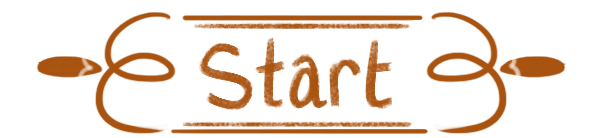
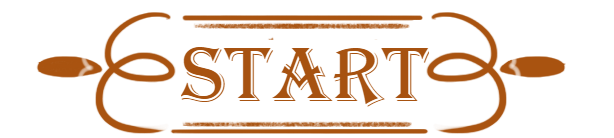
4주차 작업내용1
리소스 추가
맵 (진행중)
level 설정 메뉴

Changed region(s): [[0.2785, 0.2899, 0.7117, 0.8116]]

diff --git a/FinalProject/main.py b/FinalProject/main.py
@@ -11,25 +11,45 @@ P_main = load_image("main.jpg")
 P_player = load_image("character.png")
 P_light1 = load_image("Eff_Glitter.png")
 P_light2 = load_image("Eff_Glitter2.png")
+P_light3 = load_image("Eff_Glitter3.png")
+P_light4 = load_image("Eff_Glitter4.png")
 P_startbutton = load_image("startbutton.png")
+P_exitbutton = load_image("exitbutton.png")
+P_bullet = load_image("bullet.png")
+P_menuback = load_image("edge.png")
+P_menuside = load_image("side.png")
+P_mouse = load_image("pointer.png")
 #텍스쳐를 불러옵니다.
 
 
 def handle_events():
-    global stage,MyMouse
+    global stage,MyMouse,ClickCnt
     events = get_events()
     for event in events:
-        if event.type == SDL_QUIT:
-            stage = "serve"
+        if event.type == SDL_MOUSEMOTION:
+            MyMouse = (event.x, WindowY - event.y)
+            num = g_Time % 50
+            MouseStar[num].X = event.x + random.randint(-5, 6)
+            MouseStar[num].Y = WindowY - event.y + random.randint(-5, 6)
+            MouseStar[num].dirX = MouseStar[num].dirY = 0
+            MouseStar[num].Life = random.randint(12, 20)
+            MouseStar[num].live = True
+
+        if event.type == SDL_MOUSEBUTTONDOWN:
+            print("click")
+            for i in range(0,50):
+                ClickStar[i].live = True
+                ClickStar[i].Life = 30
+                ClickStar[i].X = event.x
+                ClickStar[i].Y = WindowY -event.y
+                ClickStar[i].dirX = ClickStar[i].dirY = 0
+            ClickCnt = 0
+
         if(stage == "main"):
-            if event.type == SDL_MOUSEMOTION:
-                MyMouse = (event.x,WindowY-event.y)
-                num = g_Time%50
-                MouseStar[num].X = event.x + random.randint(-5,6)
-                MouseStar[num].Y = WindowY-event.y + random.randint(-5,6)
-                MouseStar[num].dirX = MouseStar[num].dirY = 0
-                MouseStar[num].Life = random.randint(8,16)
-                MouseStar[num].live = True
+            if event.type == SDL_MOUSEBUTTONDOWN:
+                if (100 < MyMouse[0] < 700):
+                    if (400 < MyMouse[1] < 500):
+                        stage = "level"
         elif(stage == "level"):
             pass
         elif(stage == "stage"):
@@ -67,12 +87,29 @@ def handle_events():
             pass
 
 
-
+hide_cursor()
 while(True):
     handle_events()
     clear_canvas()
     if(stage == "main"):
         P_main.clip_draw(0+g_Time,0,WindowX,WindowY,WindowX//2,WindowY//2)
+        ##main menu
+        if (100 < MyMouse[0] < 700):
+            if (400 < MyMouse[1] < 500):
+                P_startbutton.draw(WindowX / 2, WindowY - 350, 620, 110)
+            else:
+                P_startbutton.draw(WindowX / 2, WindowY - 350, 600, 100)
+        else:
+            P_startbutton.draw(WindowX / 2, WindowY - 350, 600, 100)
+
+        if (100 < MyMouse[0] < 700):
+            if (250 < MyMouse[1] < 350):
+                P_exitbutton.draw(WindowX / 2, WindowY - 500, 620, 110)
+            else:
+                P_exitbutton.draw(WindowX / 2, WindowY - 500, 600, 100)
+        else:
+            P_exitbutton.draw(WindowX / 2, WindowY - 500, 600, 100)
+        ##main menu
     elif(stage == "stage"):
         #P_main.draw(WindowX/2,WindowY/2,WindowX,WindowY)
         if(g_Player.live == True):
@@ -86,49 +123,61 @@ while(True):
             g_Player.Draw()
             P_player.clip_draw(0,0,65,65,g_Player.X,g_Player.Y)
     elif(stage == "level"):#
-        P_main.draw(g_Player.X,g_Player.Y,90,90)
+        P_menuback.draw(WindowX/2,WindowY/2,WindowX,WindowY)
+        P_menuside.draw(WindowX/2,WindowY/10*9-50,900,200)
+        P_menuside.draw(WindowX/2,WindowY/10*9-250,900,200)
+        P_menuside.draw(WindowX/2,WindowY/10*9-450,900,200)
     elif(stage == "end"):
         break
     delay(0.033)
 
-    ##main menu
-    print(MyMouse)
-    if(100 <MyMouse[0] <700):
-        if(400<MyMouse[1]<500):
-            P_startbutton.draw(WindowX/2,WindowY-350,620,110)
-        else:
-            P_startbutton.draw(WindowX/2,WindowY-350,600,100)
-    else:
-        P_startbutton.draw(WindowX / 2, WindowY - 350, 600, 100)
-    ##main menu
+
 
     ##main Effect
-    for i in range(0,300):
-        if(Star_EffectPool[i].live == True):
-            if( (i % 2) == 0):
-                P_light1.composite_draw(math.radians(random.randint(0,360)),'',Star_EffectPool[i].X,Star_EffectPool[i].Y,Star_EffectPool[i].Wsize,Star_EffectPool[i].Hsize)
+    if(stage != "stage"):
+        for i in range(0,100):
+            if(Star_EffectPool[i].live == True):
+                if( (i % 2) == 0):
+                    P_light1.composite_draw(math.radians(random.randint(0,360)),'',Star_EffectPool[i].X,Star_EffectPool[i].Y,Star_EffectPool[i].Wsize,Star_EffectPool[i].Hsize)
+                else:
+                    P_light2.composite_draw(math.radians(random.randint(0,360)),'',Star_EffectPool[i].X,Star_EffectPool[i].Y,Star_EffectPool[i].Wsize,Star_EffectPool[i].Hsize)
+                Star_EffectPool[i].Move()
             else:
-                P_light2.composite_draw(math.radians(random.randint(0,360)),'',Star_EffectPool[i].X,Star_EffectPool[i].Y,Star_EffectPool[i].Wsize,Star_EffectPool[i].Hsize)
-            Star_EffectPool[i].Move()
-        else:
-            Star_EffectPool[i].RandomSetting(random.randint(50, 100), WindowX, WindowY)
-            Star_EffectPool[i].live = True
+                Star_EffectPool[i].RandomSetting(random.randint(50, 100), WindowX, WindowY)
+                Star_EffectPool[i].live = True
     for i in range(0,50):
         if(MouseStar[i].live == True):
             if(i%2 == 0):
-                P_light1.composite_draw(math.radians(random.randint(0, 360)), '', MouseStar[i].X,MouseStar[i].Y, MouseStar[i].Wsize, MouseStar[i].Hsize)
+                P_light3.composite_draw(math.radians(random.randint(0, 360)), '', MouseStar[i].X,MouseStar[i].Y, MouseStar[i].Life*2, MouseStar[i].Life*2)
             else:
-                P_light2.composite_draw(math.radians(random.randint(0, 360)), '', MouseStar[i].X,MouseStar[i].Y, MouseStar[i].Wsize, MouseStar[i].Hsize)
+                P_light4.composite_draw(math.radians(random.randint(0, 360)), '', MouseStar[i].X,MouseStar[i].Y, MouseStar[i].Life*2, MouseStar[i].Life*2)
             MouseStar[i].Move()
+    angle = float(math.radians(1))
+    if(ClickCnt < 40):
+        print(ClickCnt)
+        ClickCnt = ClickCnt+1
+        for i in range(0,50):
+            print(math.sin(angle * float(360/50*i)))
+            if ClickStar[i].live == True:
+                if(i%2==0):
+                    P_light3.composite_draw(math.radians(random.randint(0, 1)), '',
+                                            ClickStar[i].X + ClickCnt/2*random.randint(20,100)*0.02 * math.sin(angle * float(360 / 50 * i)),
+                                            ClickStar[i].Y + ClickCnt/2*random.randint(20,100)*0.02 * math.cos(angle * float(360 / 50 * i)),
+                                            ClickStar[i].Wsize, ClickStar[i].Hsize)
+                else:
+                    P_light4.composite_draw(math.radians(random.randint(0, 1)), '',
+                                            ClickStar[i].X + ClickCnt/2*random.randint(20,100)*0.02 * math.sin(angle * float(360 / 50 * i)),
+                                            ClickStar[i].Y + ClickCnt/2*random.randint(20,100)*0.02 * math.cos(angle * float(360 / 50 * i)),
+                                            ClickStar[i].Wsize, ClickStar[i].Hsize)
 
     ##main Effect
-    draw_rectangle(MyMouse[0]-25,MyMouse[1]-25,MyMouse[0]+25,MyMouse[1]+25)
+    P_mouse.draw(MyMouse[0],MyMouse[1],100,100)
     if(g_TimeCheck == False):
-        g_Time = g_Time+1
+        g_Time = g_Time+2
         if(g_Time > 5000):
             g_TimeCheck = True
     else:
-        g_Time = g_Time-1
+        g_Time = g_Time-2
         if(g_Time < 0):
             g_TimeCheck = False
     update_canvas()

diff --git a/FinalProject/globalParamiter.py b/FinalProject/globalParamiter.py
@@ -24,5 +24,7 @@ Star_EffectPool = [container.Effect(0,0,50,0,0,random.randint(7,12),random.randi
 for i in range(0,100):
     Star_EffectPool[i].RandomSetting(random.randint(50,100),WindowX,WindowY)
 MouseStar = [container.Effect(0,0,15,0,0,random.randint(22,33),random.randint(22,33)) for i in range(0,50)]
+ClickStar = [container.Effect(0,0,15,0,0,random.randint(7,10),random.randint(7,10)) for i in range(0,50)]
+ClickCnt = 0
 for i in range(0,50):
     MouseStar[i].live = False

diff --git a/FinalProject/pico2dtest.py b/FinalProject/pico2dtest.py
@@ -82,5 +82,16 @@ class Effect:
         self.dirY = 0
         self.Life = life
 
+class Map:
+    W = 0
+    H = 0
+    ID = 0
+    def Set(self,w,h,id):
+        W = w
+        H = h
+        ID = id
+
+
+
 
 
